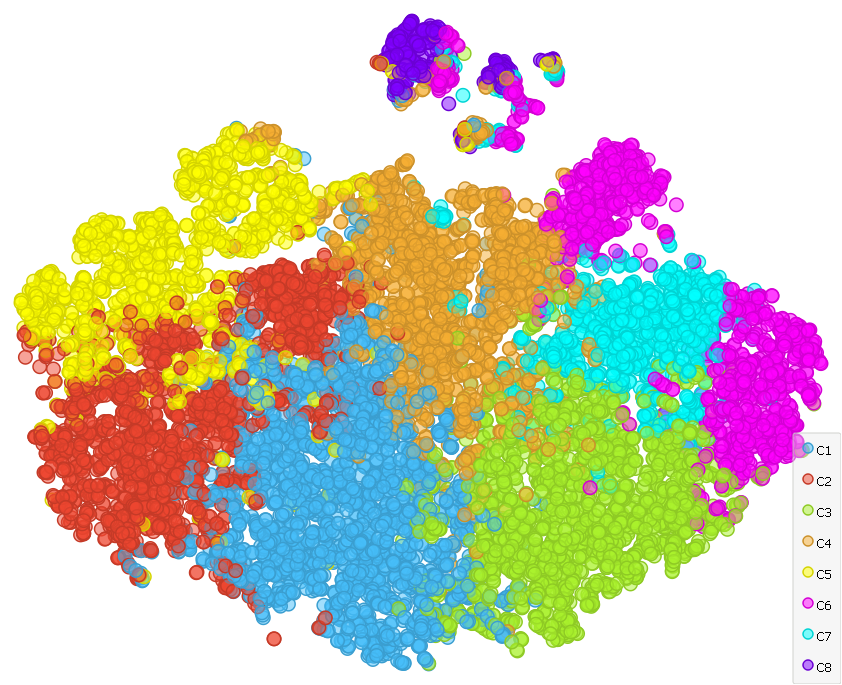
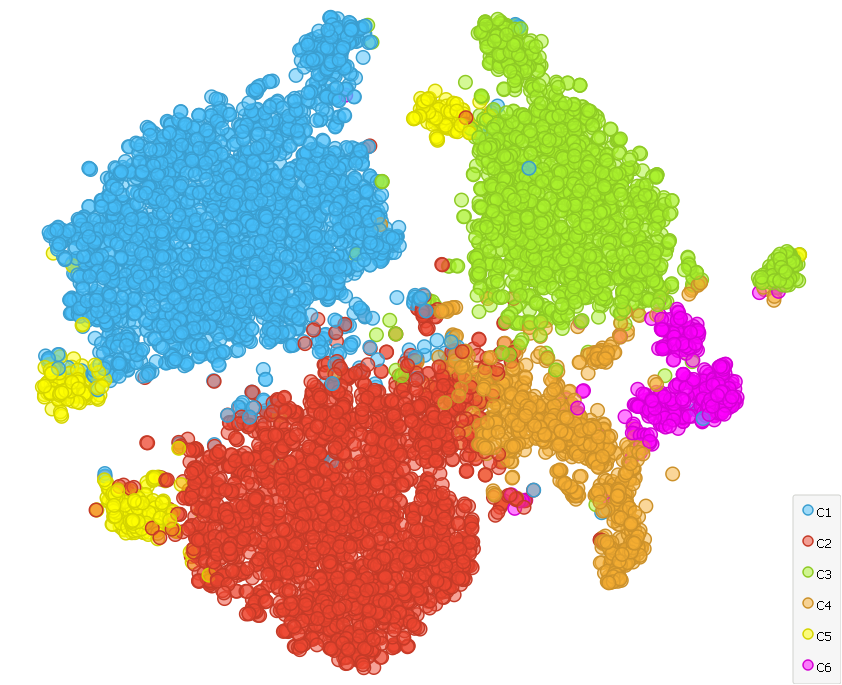
Adding full text and pictures

diff --git a/content/blog/Exhausted CD8.md b/content/blog/Exhausted CD8.md
@@ -3,44 +3,88 @@ draft = false
 type = "blog"
 image = ""
 thumbImage = ""
-date = "2019-04-23"
-title = "Subsets of exhausted CD8<sup>+</sup>  T cells"
+date = "2019-04-23" 
+title = "Subsets of exhausted CD8+  T cells" 
 hardLineBreak = true 
-categories = ["clustering", "marker genes", "tSNE", "heatmap"]
+categories = ["clustering", "marker genes", "tSNE", "immunology", "CD8+"]
 joinLines = false
 author = "Iva Černoša"
-shortExcerpt = "Learn how to cluster cells and identify marker genes for clusters" 
-longExcerpt = "Identifying subsets of exhausted CD8 <sup>+</sup> T cells during chronic viral infections and corresponding groups in T cells isolated from tumours." 
+shortExcerpt = "Identify subsets of exhausted CD8 <sup>+</sup> T cells during chronic viral infections and corresponding groups in T cells isolated from tumours." 
+longExcerpt = "Identify subsets of exhausted CD8 <sup>+</sup> T cells during chronic viral infections and corresponding groups in T cells isolated from tumours." 
 +++
 
-Today we will reproduce first part of the study by <a href="https://www.nature.com/articles/s41590-019-0312-6"> Miller <i>et al.</i></a> published in Nature Immunology this March.  
-\
-\
-<br>
-Naturally, we first need to download data which was deposited on GEO data base in two supersets: GSE122675 <a href="https://www.ncbi.nlm.nih.gov/geo/query/acc.cgi?acc=GSE122675”> and GSE122712 <a href="https://www.ncbi.nlm.nih.gov/geo/query/acc.cgi?acc=GSE122712”>.
+<!--v naslovi ne dela nadnapisano-->
+
+Nobel prize in medicine 2018 was awarded for the discovery of cancer therapy by inhibition of negative immune regulation. Since then the attempts to improve the results of the checkpoint blockade immunotherapy have highlighted the importance of understanding the heterogeneity of the cells. Here we will show how scOrange can be used in this expanding field of research by will reproducing the a part of the study by <a href="https://www.nature.com/articles/s41590-019-0312-6"> Miller <i>et al.</i></a> published in Nature Immunology this March.  
+
+Namely, we will be comparing single cell expression profiles of T cells isolated from tumours (<b>TIL</b>) and from T cells during chronic viral infection with lymphocytic choriomeningitis virus (<b>LCMV</b>), to see whether the states of dysfunctional CD8<sup>+</sup> TILs are comparable to those of T cell exhaustion in LCMVs. 
+
+Naturally, we first need to download data which was deposited on GEO database by Miller <i>et al.</i> in two supersets: <a href="https://www.ncbi.nlm.nih.gov/geo/query/acc.cgi?acc=GSE122675"> GSE122675 </a>  - TIL superset and <a href="https://www.ncbi.nlm.nih.gov/geo/query/acc.cgi?acc=GSE122712"> GSE122712 </a> - LCMV superset.
+
 Make sure you download files in MTX format, each superset into a separate folder, and rename files into <i>matrix.mtx</i>, <i>genes.tvs</i> and <i>barcodes.tvs</i>, since this is the format automatically recognised by the Load Data widget in scOrange. 
 \
 \
-{{% figure src="/blog_img/2019-04-22/workflow1.png" width="85%" height="85%" %}}
+{{% figure src="/blog_img/2019-04-23/workflow1.png" width="85%" height="85%" %}}
+\
+\
+So, now we have both datasets and before we start clustering them, we have to name genes and normalise the data using Gene Name Matcher and Single Cell Preprocess widgets.   
+\
+\
+{{% figure src="/blog_img/2019-04-23/subset2.png" width="95%" height="95%" %}}
+\
+\
+After that we start by clustering the LCMV superset and later using the marker genes, we identify here for stem-like and terminally exhausted CD8<sup>+</sup> T cells, to see if we can classify the same groups in TIL superset. 
+\
+\
+{{% figure src="/blog_img/2019-04-23/workflow2.png" width="95%" height="95%" %}}
+\
+\
+We drive the data through the Louvain Clustering widget, where we set the resolution to 2,3 and k neighbours to 100 to elicit 6 clusters.
+
+In order to identify our clusters and their marker genes we run the Cluster Analysis widget using the Mann-Whitney method since our data is not normally distributed. We set set the gene count to 200 to determine a higher number of the significant genes. 
+\
+\
+{{% figure src="/blog_img/2019-04-23/subset6_cluster.png" width="95%" height="95%" %}}
+\
+\
+Data Table widget helps us in displaying marker genes for selected clusters and ordering them by their statistic score. 
+
+Accordingly, C1 cluster is identified as terminaly exausted T cells (<i>cd7</i>, <i>Cd160</i>, <i>Rgs1</i>), C2 as effector cells (<i>cd7</i>, <i>Cd160</i>, <i>Rgs1</i>), C3 are progenitor exhausted T cells (<i>Tcf 7</i>, <i>xcl</i>) and C4 proliferating cells (<i>cdc6</i>, <i>bub1</i>). Given the size and the genes that define the remaining two clusters, we can assume they are representative of contaminating naive T cells. <!--malo še razširi-->
+
+t-SNE projection is created by the t-SNE widget.  
+\
+\
+{{% figure src="/blog_img/2019-04-23/tSNElcmv.png" width="95%" height="95%" %}}
+\
+\
+We use the same workflow to attain t-SNE projection for the TIL subset. 
+\
+\
+{{% figure src="/blog_img/2019-04-23/tSNEtic.png" width="95%" height="95%" %}}
+\
+\
+To test if LCMVs and TILs elicit analogous subsets of exhausted T cells, we use the marker genes we identified for both subgroups to colour and size t-SNE projections. <!--dodaj še sliko za to?-->
+
+The marker gene for terminally exhausted T-cell was identified as <i>cd7</i> by <a href="https://www.nature.com/articles/s41590-019-0312-6">Miller <i>et al.</i> </a> and us.
+\
+\
+{{% figure src="/blog_img/2019-04-23/tSNEcd7.png" width="95%" height="95%" %}}
+{{% figure src="/blog_img/2019-04-23/tSNE1cd7.png" width="95%" height="95%" %}}
+\
+\
+Similarly, we both identified <i>tcf7</i> as the marker gene for progenitor exhausted T cells.
+\
+\
+{{% figure src="/blog_img/2019-04-23/tSNETcf7.png" width="95%" height="95%" %}}
+{{% figure src="/blog_img/2019-04-23/tSNE1Tcf7.png" width="95%" height="95%" %}}
+\
+\
+As we can see, both of the genes predominantly colour different clusters in TIL and LCMV subsets.
+<!--dodaj še naš gen in zaključek?-->
+\
 \
 \
 
-So, now we have two datasets. One is a single cell expression profile of T cells isolated from tumours (<b>TIL</b>), the other is a profile of T cells during chronic viral infection with LCMV (<b>LCMV</b>) and before we start clustering them, we have to name genes and normalise the data using Gene Name Matcher and Single Cell Preprocess widgets.  
-<br>
+*References* 
 \
-\
-{{% figure src="/blog_img/2019-03-20/subset2.png" width="95%" height="95%" %}}
-\
-\
-We will start by clustering the LCMV superset and later use the markers for stem-like and terminally exhausted CD8<Sup>+</Sup> T cells, we identify here, to see if we can classify the same groups in TIL superset. 
-
- 
-\
-\
-
-\
-\
-
-*References* <!--dopiši pravi vir 
-
-Baron M., Veres A., Wolock S.L., <i>et al.</i> A Single-Cell Transcriptomic Map of the Human and Mouse Pancreas Reveals Inter- and Intra-cell Population Structure. <i>Cell Syst.</i> 2016;3(4):346–360.e4. doi:10.1016/j.cels.2016.08.011--> 
+Miller C.M., Sen D.R, Abosy R.A., <i>et al.</i> Subsets of Exhausted CD8+ T Cells Differentially Mediate Tumor Control and Respond to Checkpoint Blockade. <i>Nat Immunol.</i> 2019; 20:326–336. doi:<a href="https://www.nature.com/articles/s41590-019-0312-6">10.1038/s41590-019-0312-6 </a>
